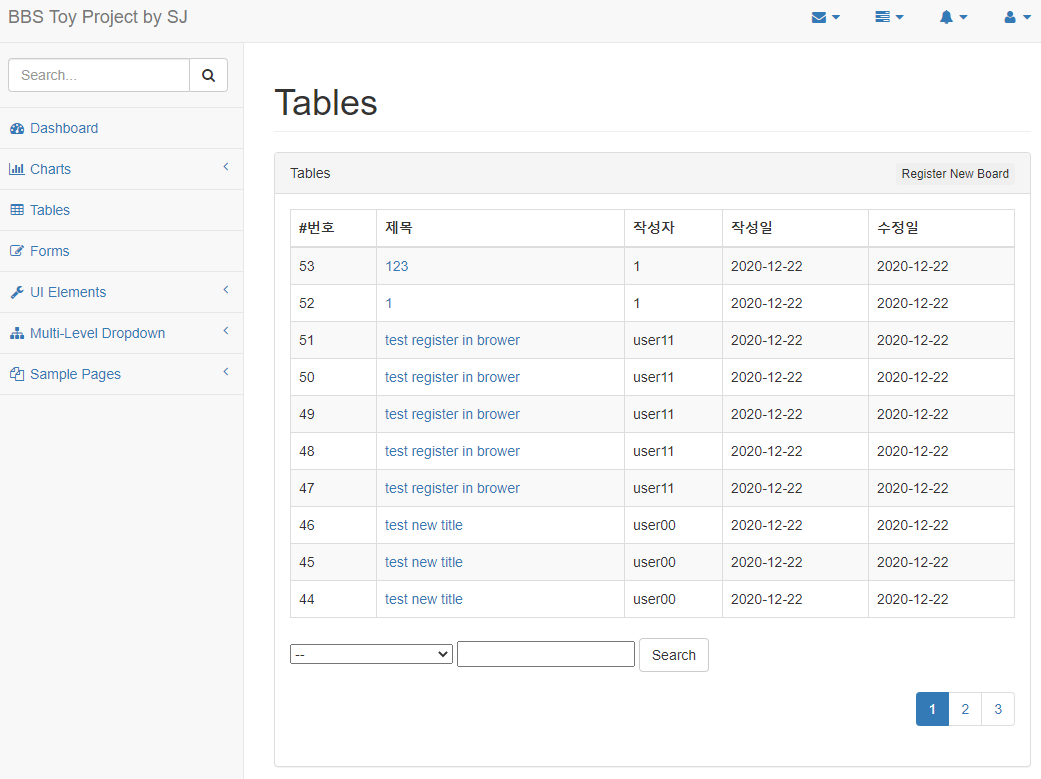
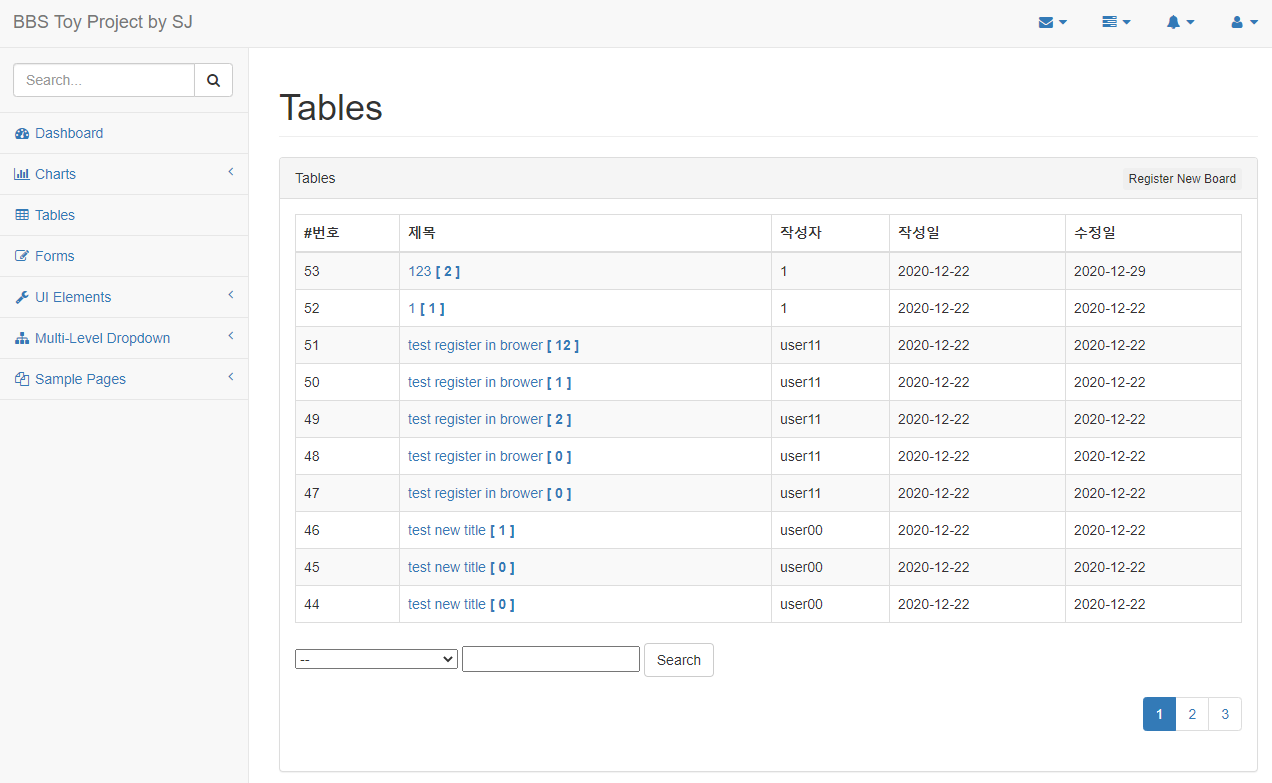
init

diff --git a/src/main/java/com/spring/service/ReplyServiceImpl.java b/src/main/java/com/spring/service/ReplyServiceImpl.java
@@ -4,9 +4,12 @@ import java.util.List;
 
 import org.springframework.beans.factory.annotation.Autowired;
 import org.springframework.stereotype.Service;
+import org.springframework.transaction.annotation.Transactional;
+
 import com.spring.domain.Criteria;
 import com.spring.domain.ReplyPageDTO;
 import com.spring.domain.ReplyVO;
+import com.spring.mapper.BoardMapper;
 import com.spring.mapper.ReplyMapper;
 
 import lombok.Setter;
@@ -19,9 +22,14 @@ public class ReplyServiceImpl implements ReplyService{
 	@Setter(onMethod_ = @Autowired)
 	private ReplyMapper mapper;
 	
+	@Setter(onMethod_ = @Autowired)
+	private BoardMapper boardMapper;
+	
+	@Transactional
 	@Override
 	public int register(ReplyVO vo) {
 		log.info("register....." + vo);
+		boardMapper.updateReplyCnt(vo.getBno(), 1);
 		return mapper.insert(vo);
 	}
 	
@@ -37,9 +45,12 @@ public class ReplyServiceImpl implements ReplyService{
 		return mapper.update(vo);
 	}
 	
+	@Transactional
 	@Override
 	public int remove(Long rno) {
 		log.info("remove............" + rno);
+		ReplyVO vo = mapper.read(rno);
+		boardMapper.updateReplyCnt(vo.getBno(), -1);
 		return mapper.delete(rno);
 	}
 	

diff --git a/src/main/java/com/spring/mapper/BoardMapper.java b/src/main/java/com/spring/mapper/BoardMapper.java
@@ -2,6 +2,8 @@ package com.spring.mapper;
 
 import java.util.List;
 
+import org.apache.ibatis.annotations.Param;
+
 import com.spring.domain.BoardVO;
 import com.spring.domain.Criteria;
 
@@ -22,4 +24,6 @@ public interface BoardMapper {
 	public int update(BoardVO board);
 	
 	public int getTotalCount(Criteria cri);
+	
+	public void updateReplyCnt(@Param("bno") Long bno, @Param("amount") int amount);
 }

diff --git a/src/main/java/com/spring/domain/BoardVO.java b/src/main/java/com/spring/domain/BoardVO.java
@@ -12,4 +12,5 @@ public class BoardVO {
 	private String writer;
 	private Date regdate;
 	private Date updateDate;
+	private int replyCnt;
 }

diff --git a/README.md b/README.md
@@ -1,7 +1,11 @@
 # Board
 Spring Framework를 기반으로 한 CRUD 게시판 제작
 
-![index](https://user-images.githubusercontent.com/42952319/103095616-8e0eff00-4644-11eb-86e4-00a2bbb72c4b.PNG)
+![index](https://user-images.githubusercontent.com/42952319/103534254-e3170480-4ed1-11eb-8ca1-3b2f5615dbce.PNG)
+![get](https://user-images.githubusercontent.com/42952319/103534287-ee6a3000-4ed1-11eb-8187-2d7732ce0da8.PNG)
+![get_modal](https://user-images.githubusercontent.com/42952319/103534304-f5913e00-4ed1-11eb-9edf-a32121ec5a1d.PNG)
+
+
 
 ## 개발 언어 및 환경
 - bootstrap(http://startbootstrap.com/template-overviews/sb-admin-2/)
@@ -151,7 +155,12 @@ root-context
 - service 부분 reply 관련 추가
 - contorller 부분 수정
 - 페이징 관련 함수 추가
-
+#### tb1_board 테이블 변경
+- alter table tb1_board add (replycnt number default 0);
+- update tb1_board set replycnt = (select count(rno) from tb1_reply where tb1_reply.bno = tb1_board.bno);
+#### 댓글과 댓글 수에 대한 처리
+- BoardVO, BoardMapper 수정(replyCnt)
+- list.jsp(게시글 옆에 게시글의 댓글 수 표시) 수정
 
 
 
